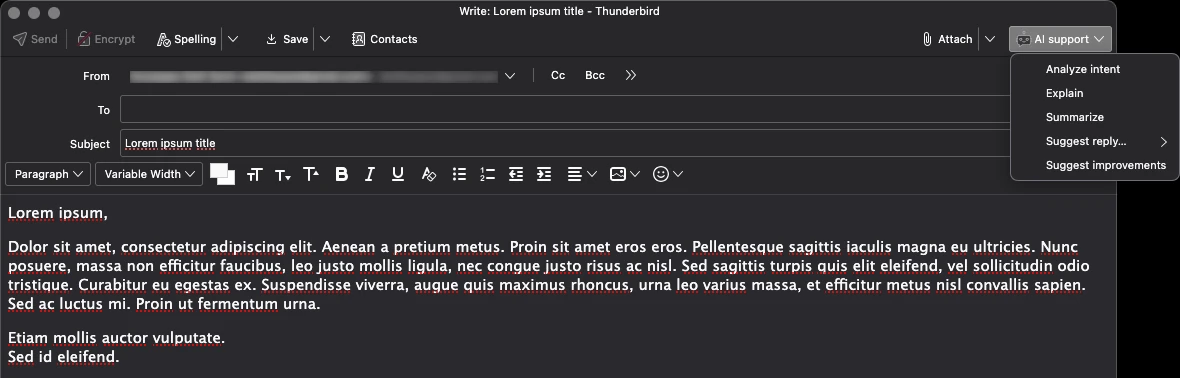
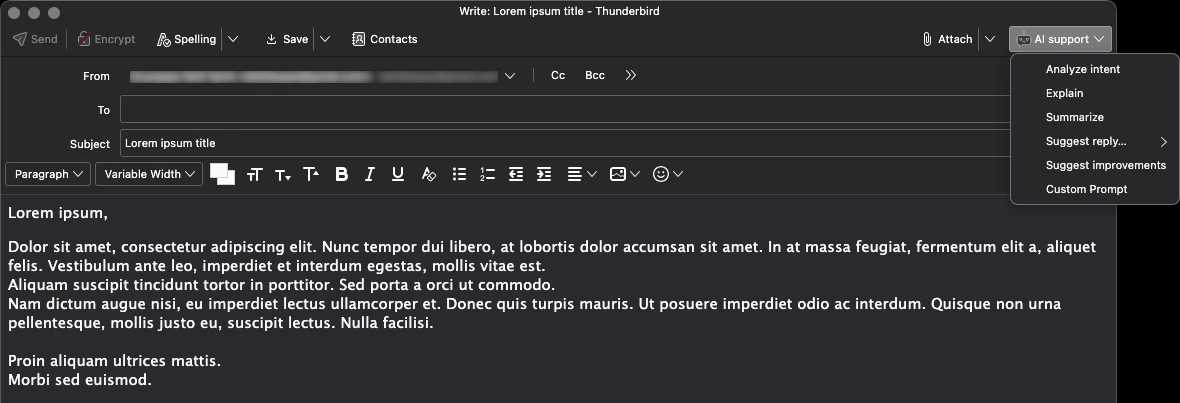
Continuation of Work Version 93
• Complete version of the free-prompt functionality, allowing users to input custom prompts

diff --git a/ai-mail-support/promptDisplay/promptDisplay.js b/ai-mail-support/promptDisplay/promptDisplay.js
@@ -1,5 +1,3 @@
-(async()=>{browser.runtime.onMessage.addListener(async e=>{e?.showPromptDisplay===!0&&function(){if(document.querySelector("#amsOuterRequest"))return;let e=document.createElement("div");e.id="amsOuterRequest";let t=e.attachShadow({mode:"open"}),n=document.createElement("div");n.id="amsInnerRequest",t.appendChild(n);let s=document.createElement("link");s.rel="stylesheet",s.href=browser.runtime.getURL("/promptDisplay/promptDisplay.css"),n.appendChild(s);let a=document.createElement("textarea");a.className="auto-resizing-textarea",a.placeholder=messenger.i18n.getMessage("promptDisplay.placeholder"),a.rows=1,n.appendChild(a);let r=document.createElement("button");r.innerHTML=`
-            <svg xmlns="http://www.w3.org/2000/svg" viewBox="0 0 24 24">
-                <path d="M2.01 21L23 12 2.01 3 2 10l15 2-15 2z"/>
-            </svg>
-        `,r.addEventListener("click",()=>{browser.runtime.sendMessage({action:"sendUserPromptToBackground",data:{userPrompt:a.value}})}),n.appendChild(r);let d=document.createElement("span");d.className="close-icon",d.innerHTML="&times;",d.addEventListener("click",()=>{document.querySelector("#amsOuterRequest").remove()}),n.appendChild(d),a.addEventListener("input",()=>{r.classList.toggle("show",""!==a.value.trim())}),document.body.appendChild(e)}()})})();
+(async()=>{browser.runtime.onMessage.addListener(async e=>{e?.showPromptDisplay===!0&&function(){if(document.querySelector("#amsOuterRequest"))return;let e=document.createElement("div");e.id="amsOuterRequest";let t=e.attachShadow({mode:"open"}),s=document.createElement("div");s.id="amsInnerRequest",t.appendChild(s);let a=document.createElement("link");a.rel="stylesheet",a.href=browser.runtime.getURL("/promptDisplay/promptDisplay.css"),s.appendChild(a);let n=document.createElement("textarea");n.className="auto-resizing-textarea",n.placeholder=messenger.i18n.getMessage("promptDisplay.placeholder"),n.rows=1,s.appendChild(n);let r=document.createElement("button");r.innerHTML=`<svg xmlns="http://www.w3.org/2000/svg" viewBox="0 0 24 24">
+            <path d="M2.01 21L23 12 2.01 3 2 10l15 2-15 2z"/>
+        </svg>`,r.addEventListener("click",()=>{""!==n.value.trim()&&browser.runtime.sendMessage({action:"sendUserPromptToBackground",data:{userPrompt:n.value}})}),s.appendChild(r);let l=document.createElement("span");l.className="close-icon",l.innerHTML="&times;",l.addEventListener("click",()=>{document.querySelector("#amsOuterRequest").remove()}),s.appendChild(l),n.addEventListener("input",()=>{n.style.height="auto",""!==n.value.trim()?(r.classList.add("active"),n.style.height=`${n.scrollHeight}px`):r.classList.remove("active")}),document.body.appendChild(e)}()})})();

diff --git a/ai-mail-support/promptDisplay/promptDisplay.css b/ai-mail-support/promptDisplay/promptDisplay.css
@@ -1,1 +1,1 @@
-.close-icon{color:#000;cursor:pointer;font-size:18px;position:absolute}@keyframes backgroundChange{0%{background-color:#fff}to{background-color:#bebebe}}@keyframes zoomPulse{0%,to{transform:scale(1)}50%{transform:scale(1.2)}}#amsOuterRequest{z-index:9999;width:80%;position:fixed;top:10px;left:50%;transform:translate(-50%)}#amsInnerRequest{color:#000;background-color:#fff;border-radius:10px;max-height:50vh;margin-right:60px;padding:15px;font-size:14px;position:relative;overflow-y:auto;box-shadow:0 0 10px #00000080}#amsInnerRequest textarea{color:#1f1f1f;resize:none;background-color:#0000;border:none;outline:none;width:calc(100% - 60px);max-height:200px;margin:0;padding:5px 0;line-height:1.5;overflow-y:auto}#amsInnerRequest textarea::placeholder{color:#5f6368}#amsInnerRequest button{cursor:pointer;background-color:#f0f4f9;border:none;border-radius:50%;width:40px;height:40px;transition:background-color .4s;display:none;position:absolute;top:50%;right:25px;transform:translateY(-50%)}#amsInnerRequest button:hover{background-color:#d3dfed}#amsInnerRequest button.show{display:block}#amsInnerRequest button svg{fill:#1b1c1d;width:20px;height:20px}#amsInnerRequest .close-icon{top:0;right:10px}
+.close-icon{color:#000;cursor:pointer;font-size:18px;position:absolute}@keyframes backgroundChange{0%{background-color:#fff}to{background-color:#bebebe}}@keyframes zoomPulse{0%,to{transform:scale(1)}50%{transform:scale(1.2)}}#amsOuterRequest{z-index:9999;width:80%;position:fixed;top:10px;left:50%;transform:translate(-50%)}#amsInnerRequest{color:#000;background-color:#fff;border-radius:10px;max-height:50vh;margin-right:60px;padding:15px;font-size:14px;position:relative;overflow-y:auto;box-shadow:0 0 10px #00000080}#amsInnerRequest textarea{color:#1f1f1f;resize:none;background-color:#0000;border:none;outline:none;width:calc(100% - 60px);max-height:80px;margin:0;padding:5px 0;line-height:1.5;overflow-y:auto}#amsInnerRequest textarea::placeholder{color:#5f6368}#amsInnerRequest button{opacity:.7;pointer-events:none;background-color:#f0f4f9;border:none;border-radius:50%;width:40px;height:40px;transition:background-color .4s;position:absolute;top:50%;right:25px;transform:translateY(-50%)}#amsInnerRequest button.active{cursor:pointer;opacity:1;pointer-events:auto;display:block}#amsInnerRequest button svg{fill:#1b1c1d;width:20px;height:20px}#amsInnerRequest .close-icon{top:0;right:10px}

diff --git a/src/ts/promptDisplay.ts b/src/ts/promptDisplay.ts
@@ -44,15 +44,15 @@ function createRequestDisplay(): void {
     amsInnerRequest.appendChild(textarea)
 
     const sendButton = document.createElement('button')
-
     // Define the SVG send icon as a template literal string
-    const svgIcon: string = `
-            <svg xmlns="http://www.w3.org/2000/svg" viewBox="0 0 24 24">
-                <path d="M2.01 21L23 12 2.01 3 2 10l15 2-15 2z"/>
-            </svg>
-        `
-    sendButton.innerHTML = svgIcon
+    sendButton.innerHTML = `<svg xmlns="http://www.w3.org/2000/svg" viewBox="0 0 24 24">
+            <path d="M2.01 21L23 12 2.01 3 2 10l15 2-15 2z"/>
+        </svg>`
     sendButton.addEventListener('click', () => {
+        if(textarea.value.trim() === '') {
+            return
+        }
+
         // Send the user prompt to the background script, which will handle it appropriately
         browser.runtime.sendMessage({
             action: 'sendUserPromptToBackground',
@@ -70,9 +70,19 @@ function createRequestDisplay(): void {
     amsInnerRequest.appendChild(closeIcon)
     // <-- contents
 
-    // Input event handling
+    // Handle input event for both auto-resizing the textarea and enabling the button
     textarea.addEventListener('input', () => {
-        sendButton.classList.toggle('show', textarea.value.trim() !== '')
+        // Reset height to 'auto' to let the browser calculate the natural height
+        textarea.style.height = 'auto'
+
+        // Toggle button state based on content presence, and set the correct height
+        // for the main textarea.
+        if (textarea.value.trim() !== '') {
+            sendButton.classList.add('active')
+            textarea.style.height = `${textarea.scrollHeight}px`
+        } else {
+            sendButton.classList.remove('active')
+        }
     })
 
     document.body.appendChild(amsOuterRequest)

diff --git a/src/sass/promptDisplay.scss b/src/sass/promptDisplay.scss
@@ -1,5 +1,4 @@
 @use '_generics' as *;
-@use "sass:color";
 
 // ams => AI Mail Support
 #amsOuterRequest {
@@ -30,7 +29,7 @@
         color: #1f1f1f;
         line-height: 1.5;
         margin: 0;
-        max-height: 200px;
+        max-height: 80px;
         outline: none;
         overflow-y: auto;
         padding: 5px 0;
@@ -46,9 +45,9 @@
         background-color: #f0f4f9;
         border-radius: 50%;
         border: none;
-        cursor: pointer;
-        display: none;
         height: 40px;
+        opacity: .7;
+        pointer-events: none;
         position: absolute;
         right: 25px;
         top: 50%;
@@ -56,12 +55,11 @@
         transition: background-color .4s ease;
         width: 40px;
 
-        &:hover {
-            background-color: color.adjust(#f0f4f9, $lightness: -8%)
-        }
-
-        &.show {
+        &.active {
+            cursor: pointer;
             display: block;
+            opacity: 1;
+            pointer-events: auto;
         }
 
         svg {

diff --git a/src/ts/helpers/utils.ts b/src/ts/helpers/utils.ts
@@ -189,6 +189,6 @@ export async function sendMessageToActiveTab(
         | { type: string; content: Blob | string | { [key: string]: number } }
         | { showPromptDisplay: boolean } 
 ): Promise<void> {
-    const tabs = await browser.tabs.query({ active: true, currentWindow: true });
-    await browser.tabs.sendMessage(tabs[0].id, message);
+    const tabs = await browser.tabs.query({ active: true, currentWindow: true })
+    await browser.tabs.sendMessage(tabs[0].id, message)
 }
